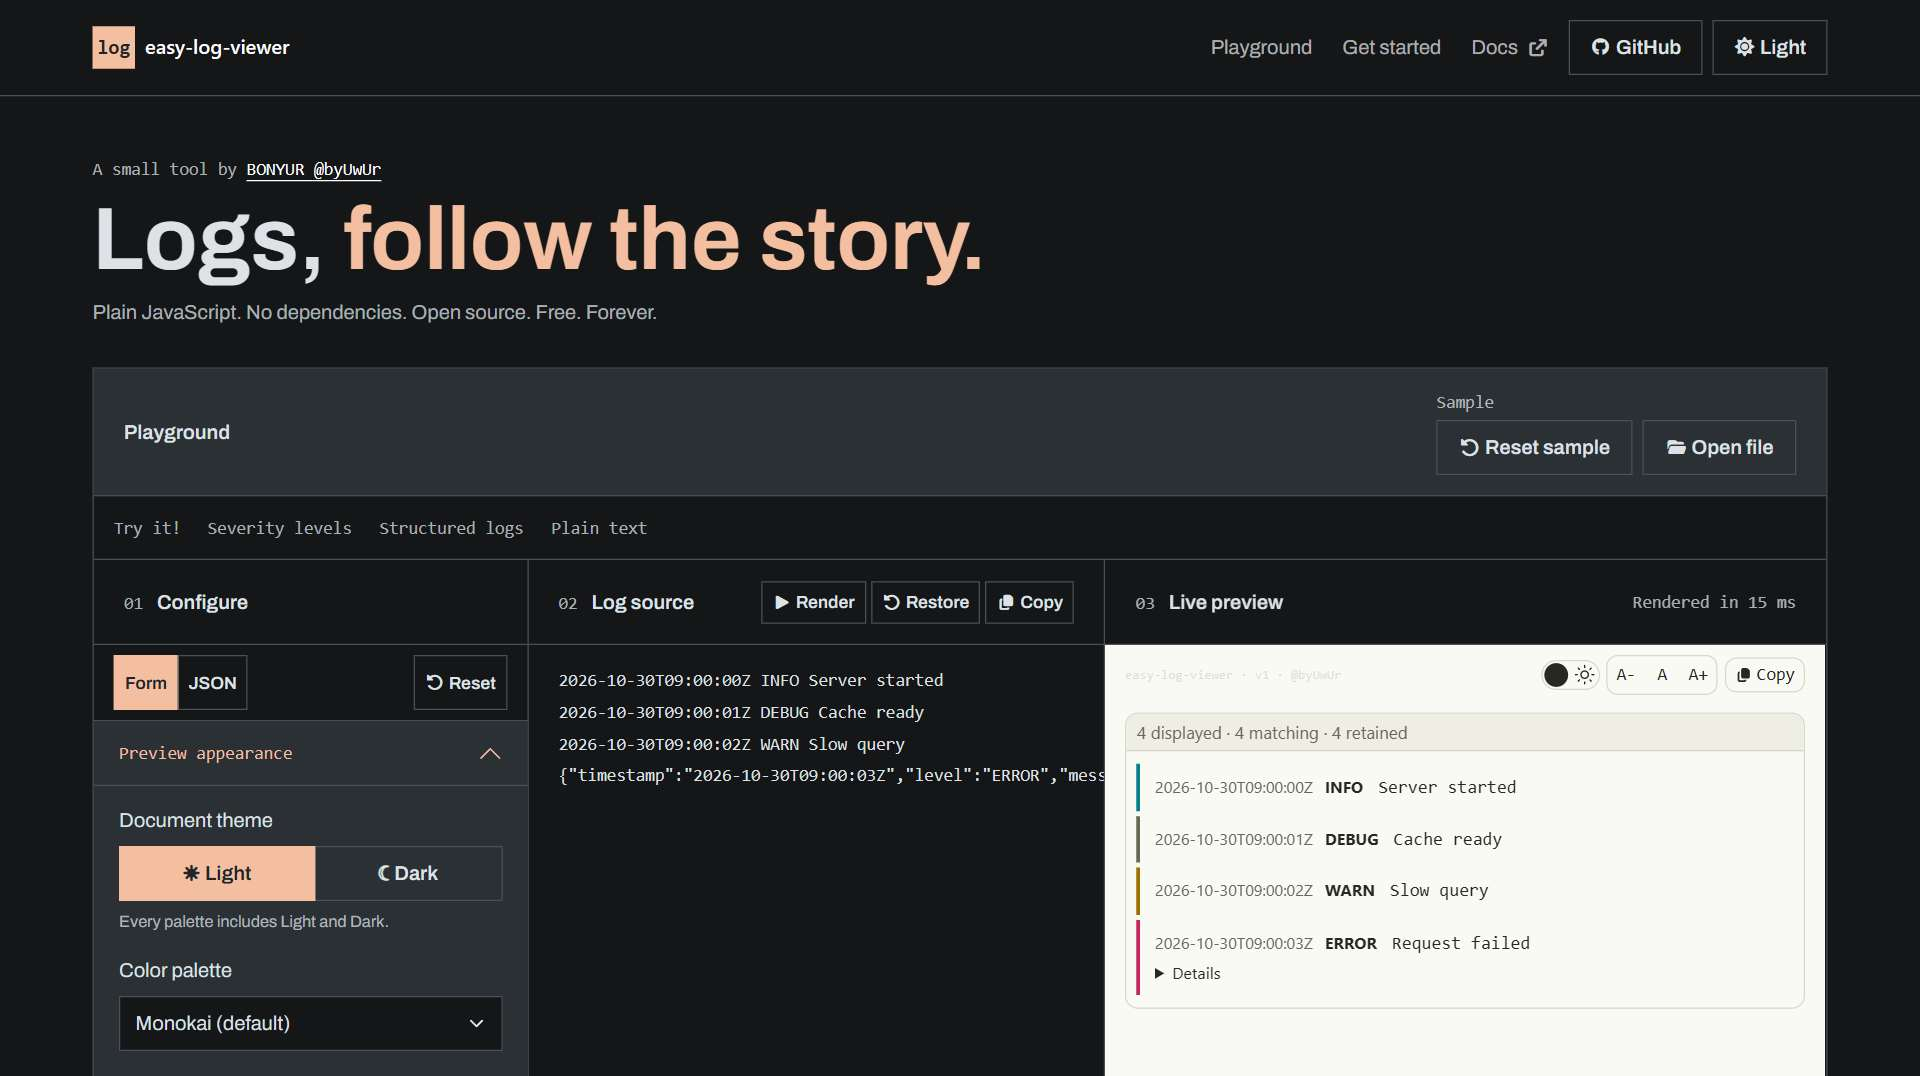
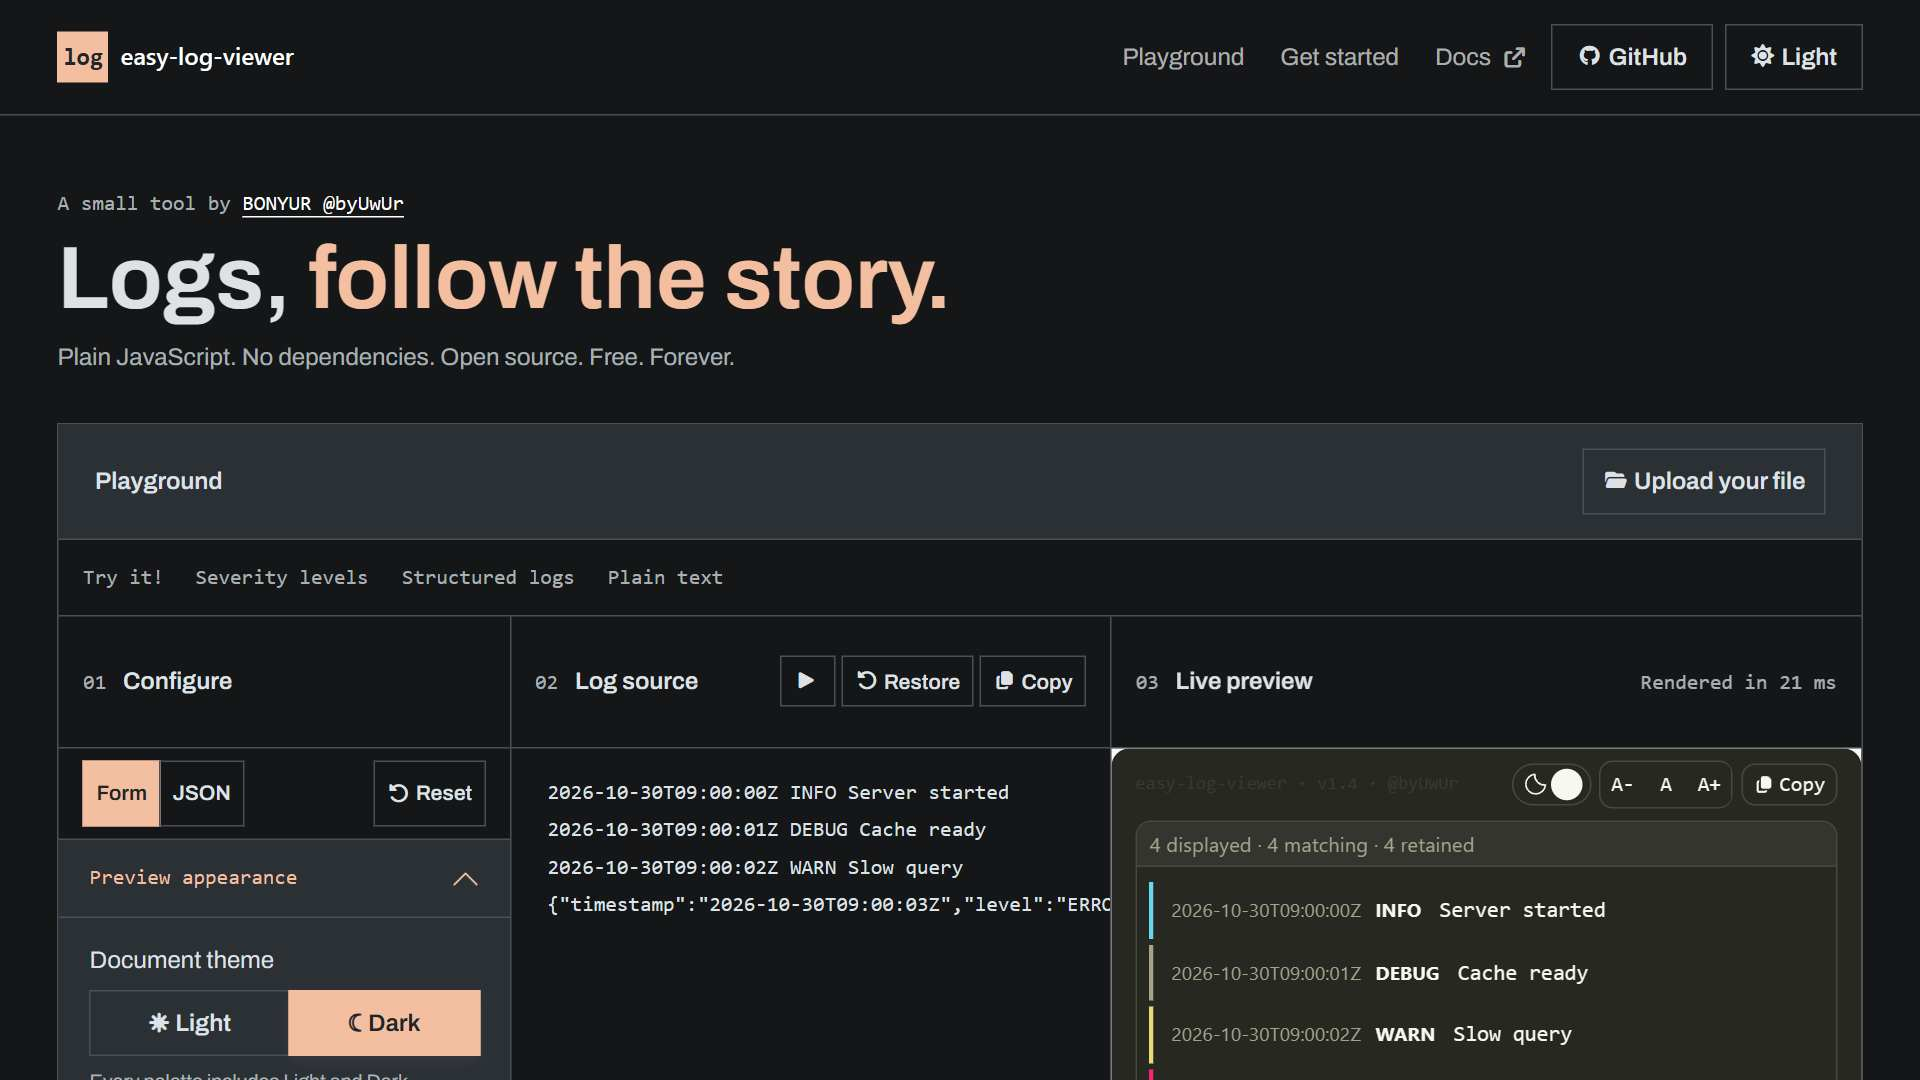
[Update] [Previews] Refresh the 1080p playground preview
Refresh the preview capture at 150% scaling, with exact 1920x1080 JPEG output capped at 100000 bytes. Align image-height metadata where present.

Validation: JPEG format, dimensions, and byte limits; affected-file diff checks.

diff --git a/index.html b/index.html
@@ -24,7 +24,7 @@
     <meta property="og:image" content="https://log.byuwur.co/prev.jpg" />
     <meta property="og:image:type" content="image/jpeg" />
     <meta property="og:image:width" content="1920" />
-    <meta property="og:image:height" content="1076" />
+    <meta property="og:image:height" content="1080" />
     <meta property="og:image:alt" content="easy-log-viewer by BONYUR: Logs playground, options, source editor, and live preview." />
     <meta name="twitter:card" content="summary_large_image" />
     <meta name="twitter:creator" content="@byUwUr" />
